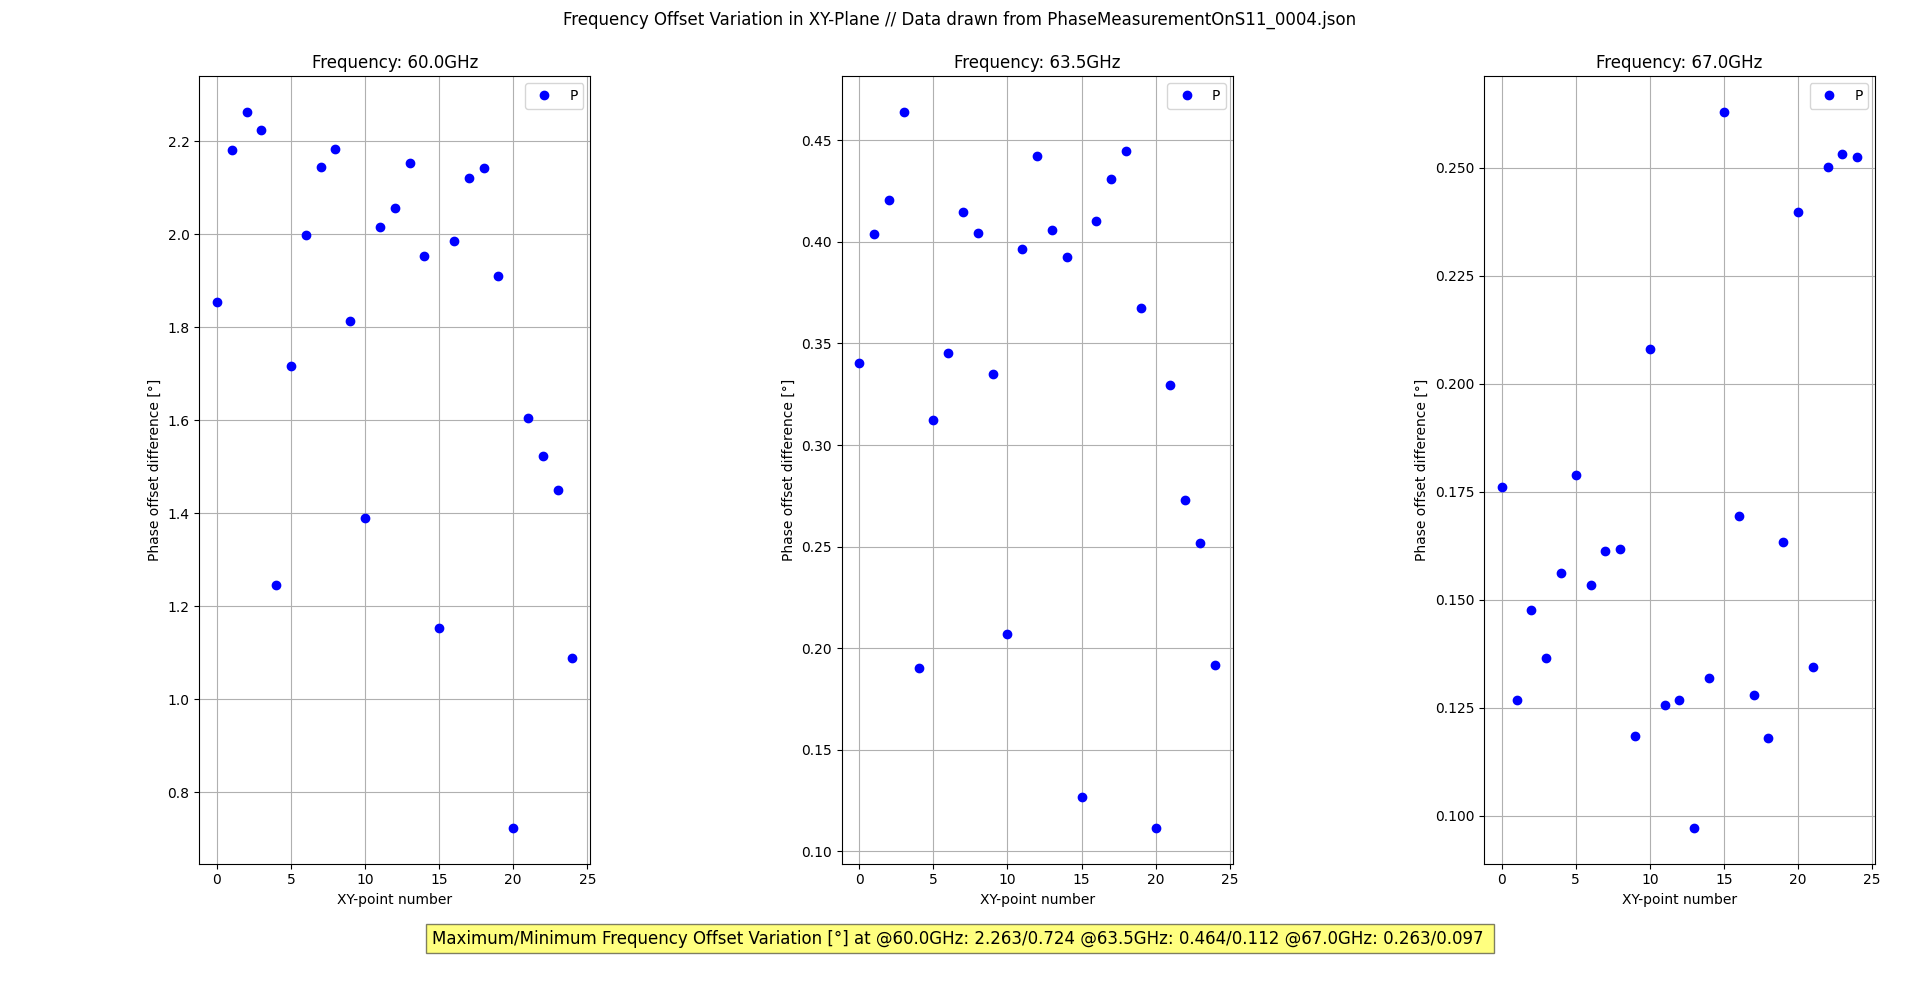
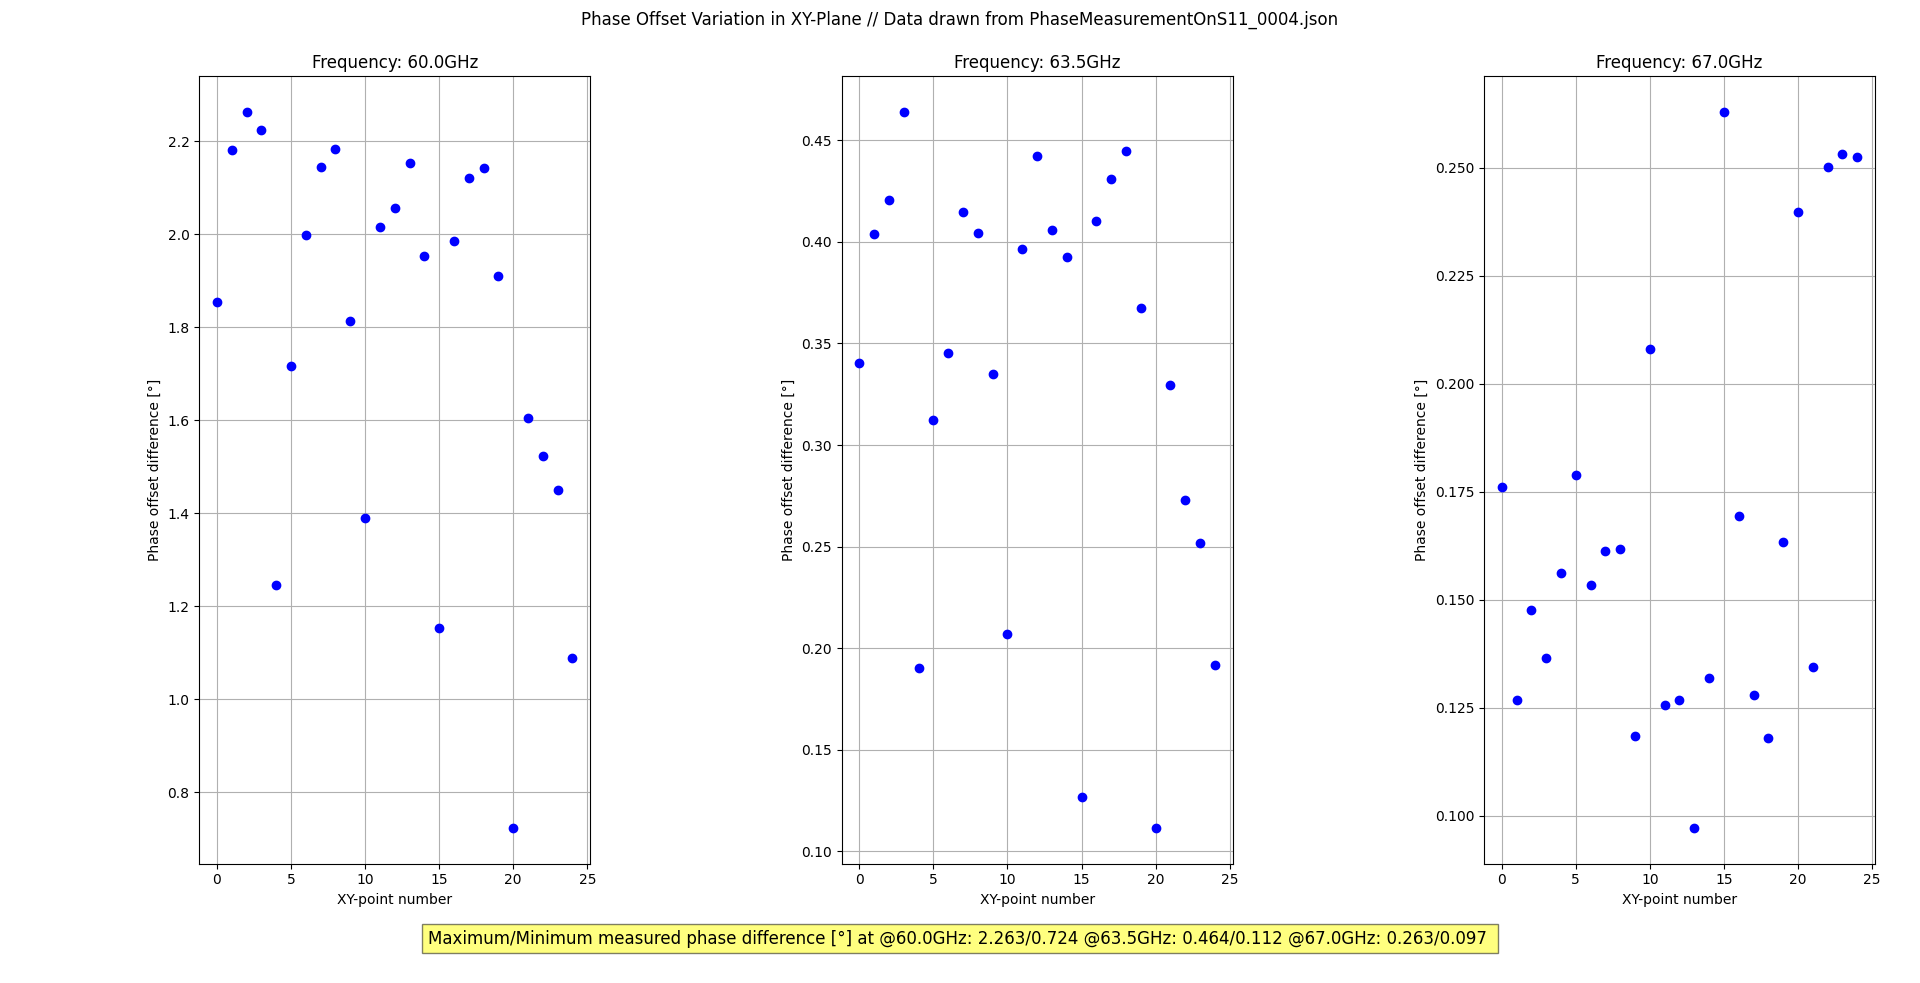
corrected typos in readme and figures

diff --git a/SpecialScripts/XYFrequencyOffsetVariation.py b/SpecialScripts/XYFrequencyOffsetVariation.py
@@ -44,15 +44,15 @@ for f in range(num_freq_points):
 
             freq_offset_variation = phase_offset_max - phase_offset_min
             y_val[f].append(freq_offset_variation)
-            print("Frequency offset variation: ", freq_offset_variation)
+            print("Phase offset variation: ", freq_offset_variation)
 
 
 # Window Config
 main_fig, main_axes = plt.subplots(nrows=1, ncols=num_freq_points)
 manager_main_fig = plt.get_current_fig_manager()
 manager_main_fig.set_window_title('Maximum Phase Offset Difference in XY-Plane')
-main_fig.text(0.5, 0.975, str('Frequency Offset Variation in XY-Plane // Data drawn from ' + __filename), ha='center', fontsize=12)
-info_string = "Maximum/Minimum Frequency Offset Variation [°] at "
+main_fig.text(0.5, 0.975, str('Phase Offset Variation in XY-Plane // Data drawn from ' + __filename), ha='center', fontsize=12)
+info_string = "Maximum/Minimum measured phase difference [°] at "
 for i in range(num_freq_points):
     x = x_val
     y = y_val[i]
@@ -66,11 +66,11 @@ for i in range(num_freq_points):
     main_axes[i].grid(True)
     main_axes[i].set_ylabel('Phase offset difference [°]')
     main_axes[i].set_xlabel('XY-point number')
-    main_axes[i].legend('Phase offset [°]')
     main_axes[i].set_title('Frequency: ' + str(round(meas_data_dict['f_vec'][i]*1e-9,1)) + 'GHz')
 
 main_fig.text(0.5, 0.04, info_string, ha='center', fontsize=12, bbox=dict(facecolor='yellow', alpha=0.5))
 plt.tight_layout()
+
 
 
 # Plot phase offset as line over repetitions for each point in XY plane
